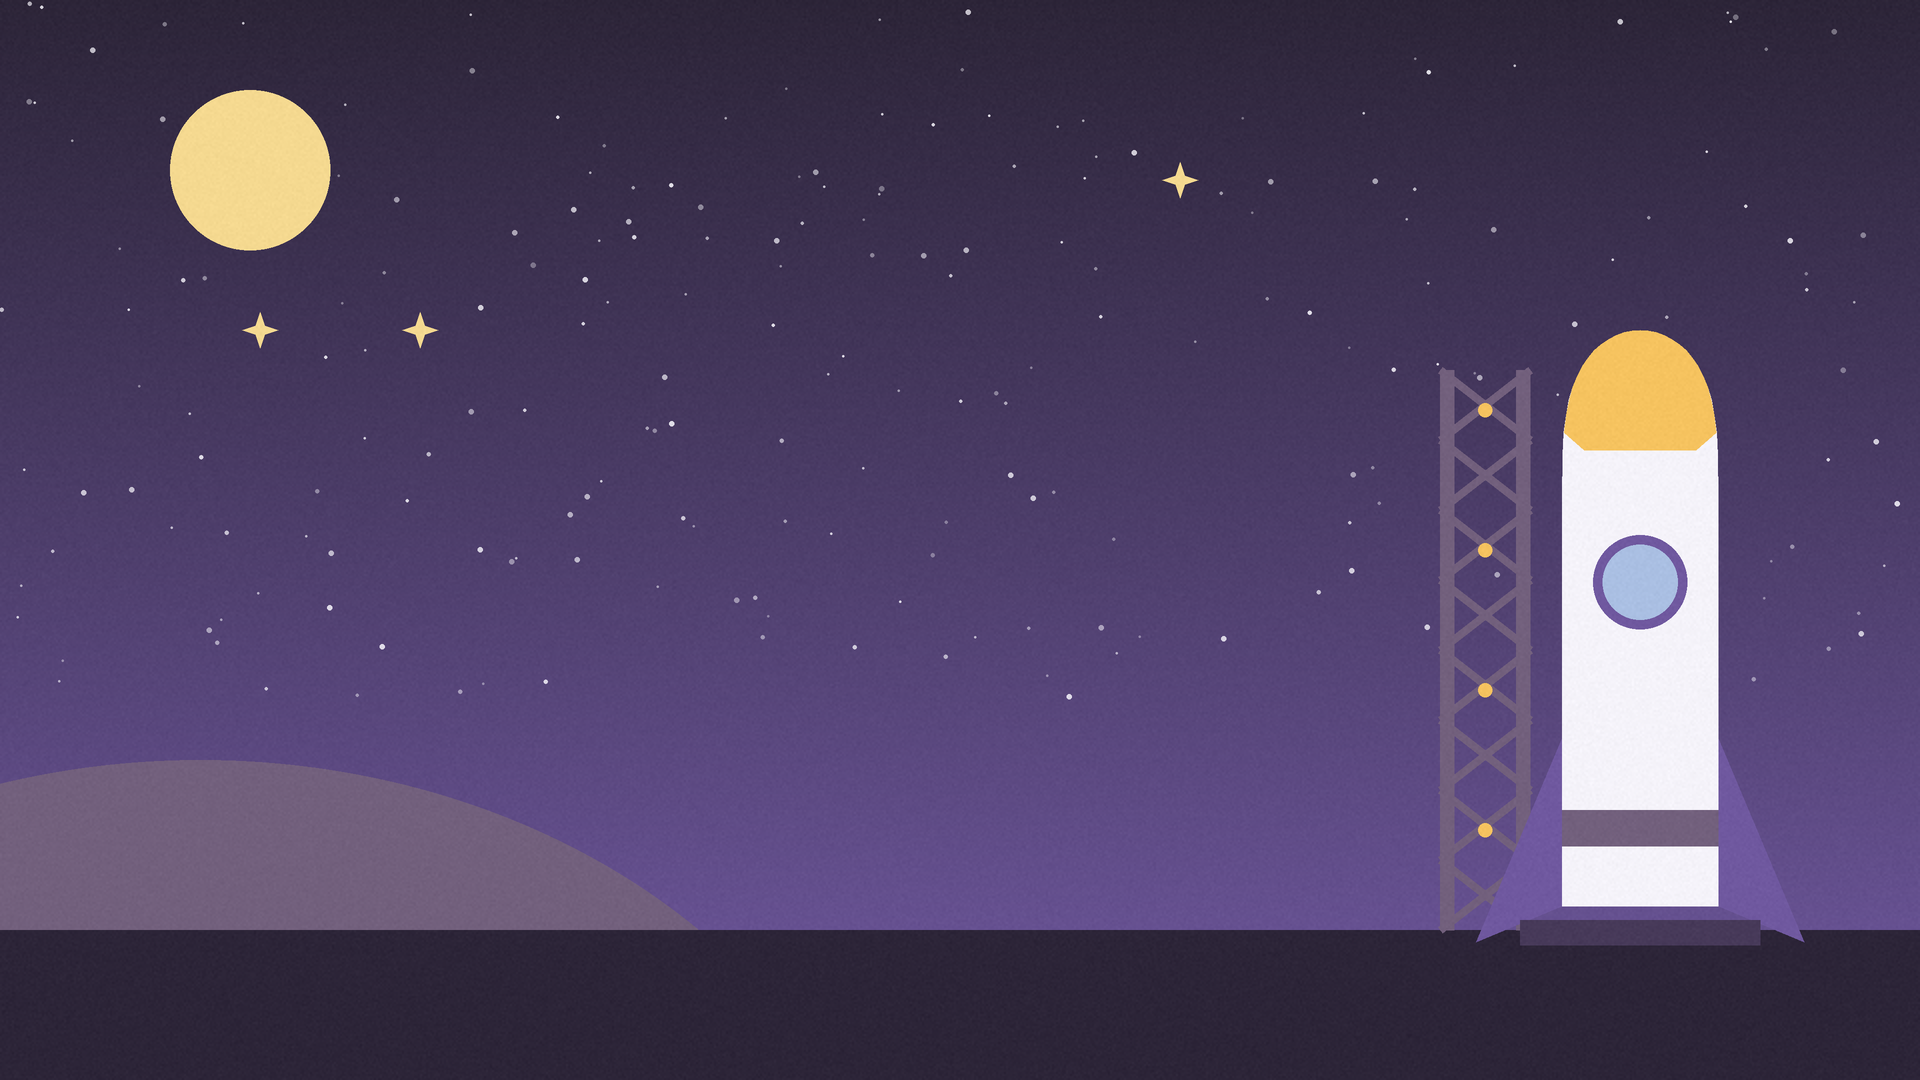
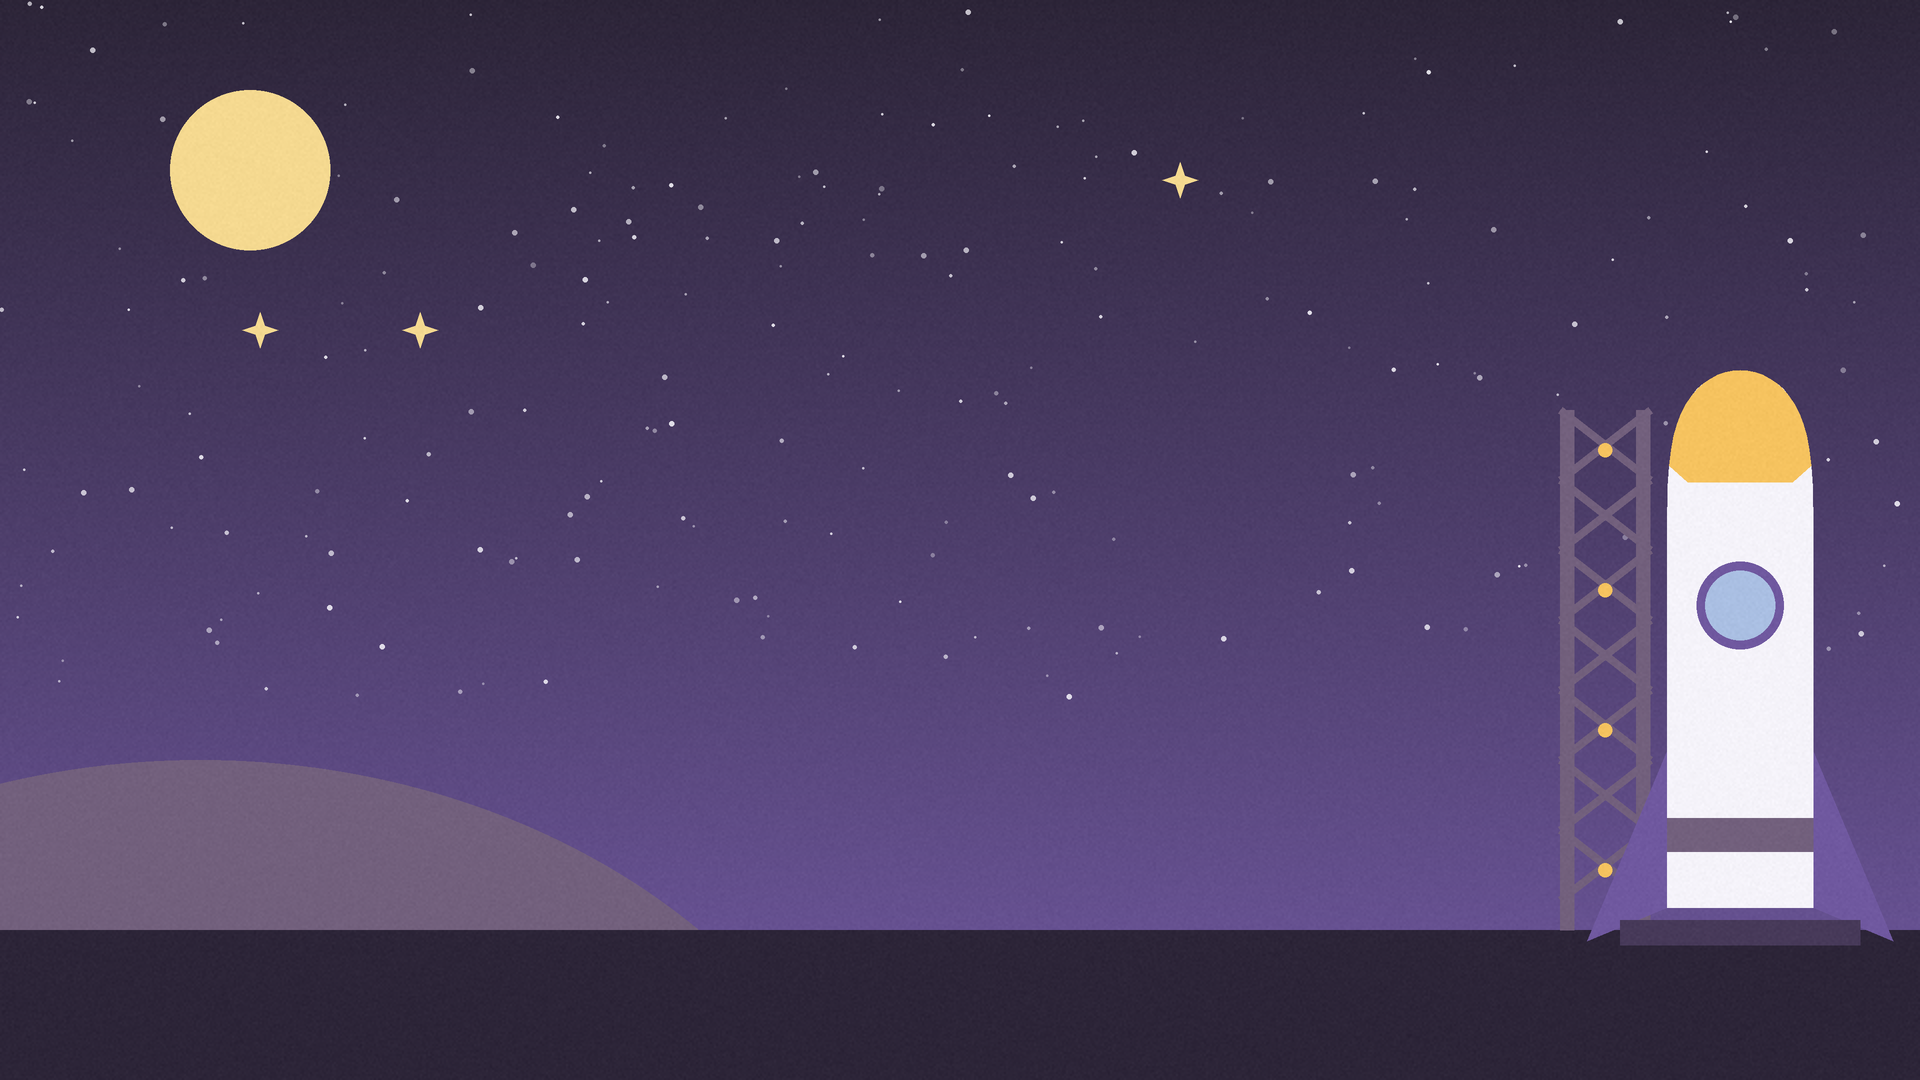
LaunchClip: title rocket clear of the title text, gantry braces stop at the ground

Changed region(s): [[0.75, 0.3056, 0.9688, 0.8861]]

diff --git a/LaunchClip/scripts/draw_artwork.py b/LaunchClip/scripts/draw_artwork.py
@@ -151,7 +151,7 @@ def gantry(draw, x, ground, height, width=90):
     col = (*MAUVE, 255)
     draw.rectangle(p(x, ground - height, x + 14, ground), fill=col)
     draw.rectangle(p(x + width - 14, ground - height, x + width, ground), fill=col)
-    for y in range(int(ground - height), int(ground), 70):
+    for y in range(int(ground - height), int(ground) - 69, 70):  # braces stop at the ground
         draw.line(p(x, y, x + width, y + 70), fill=col, width=8 * S)
         draw.line(p(x + width, y, x, y + 70), fill=col, width=8 * S)
     for y in range(int(ground - height) + 40, int(ground), 140):
@@ -167,9 +167,9 @@ def draw_title():
     d.ellipse(p(170, 90, 330, 250), fill=(*YELLOW_LIGHT, 255))           # moon
     d.ellipse(p(-500, 760, 900, 1900), fill=(*MAUVE, 255))               # planet rim
     d.rectangle(p(0, 930, W, H), fill=(*NIGHT, 255))                     # ground
-    gantry(d, 1440, 930, 560)
-    rocket(d, 1640, 930, 600)
-    d.rectangle(p(1520, 920, 1760, 945), fill=(*DARK, 255))
+    gantry(d, 1560, 930, 520)          # right of the title panel, which ends near x=1520
+    rocket(d, 1740, 930, 560)
+    d.rectangle(p(1620, 920, 1860, 945), fill=(*DARK, 255))
     for x in (260, 420, 1180):
         sparkle(d, x, 330 if x != 1180 else 180, 18)
     paste(img, over)
